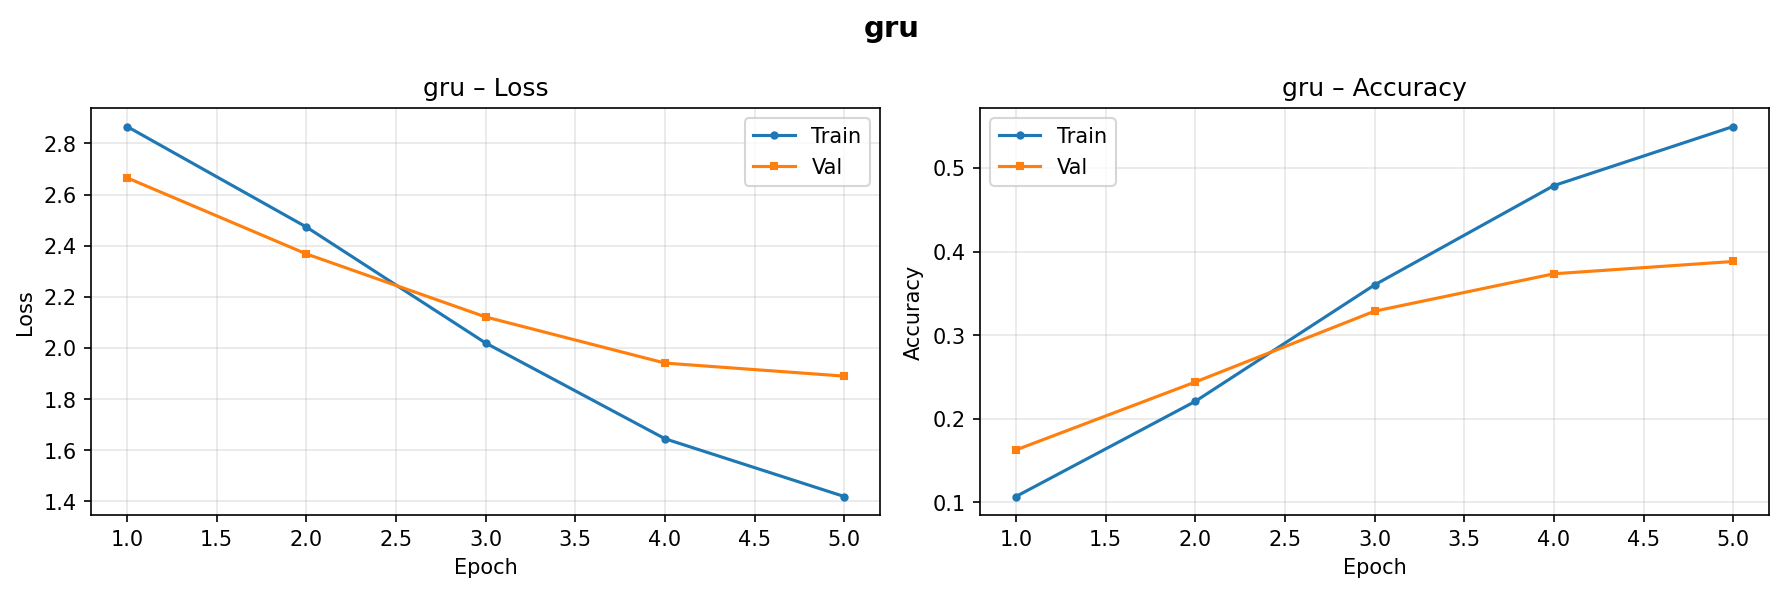
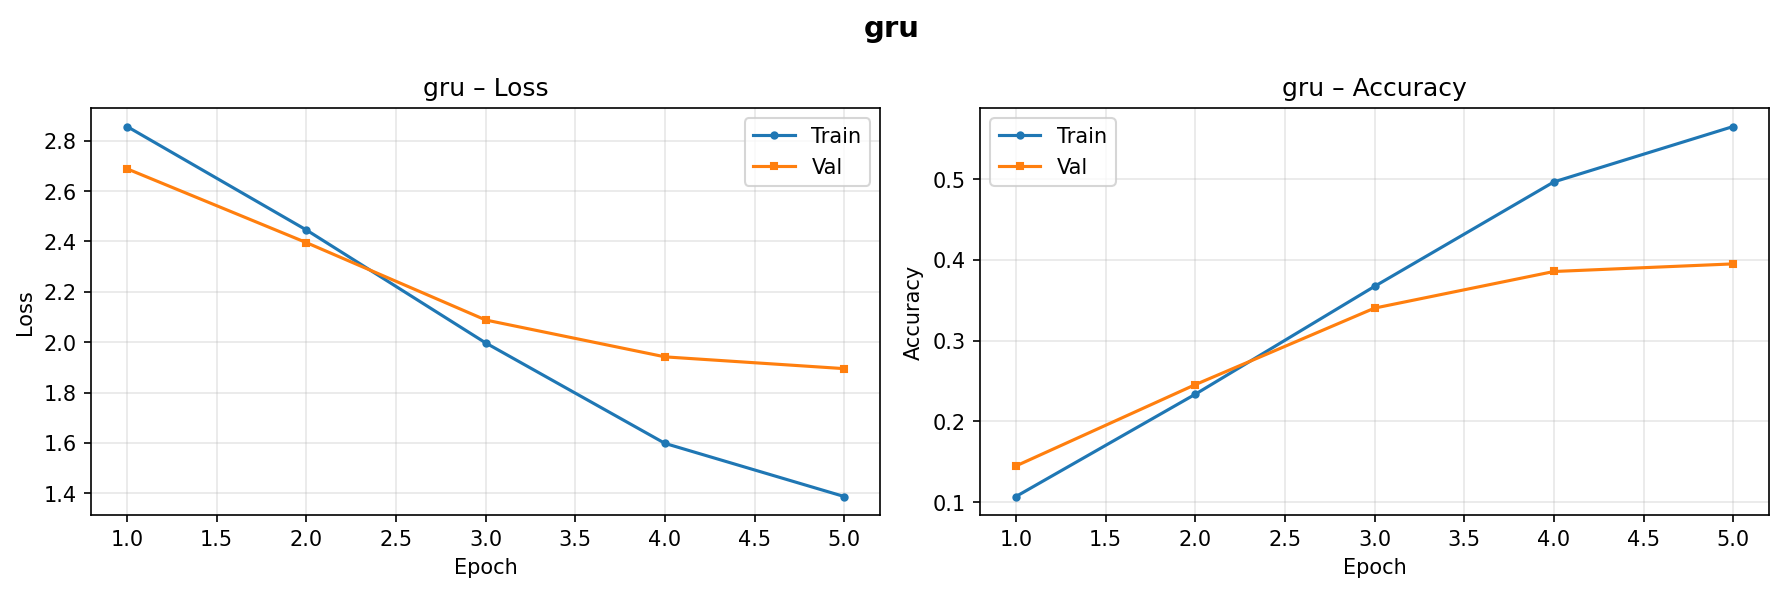
feat: update results with DistilBERT, CLIP and refreshed metrics
- DistilBERT: 69.04% accuracy, 0.6682 F1-macro (3 epochs)
- CLIP zero-shot 54.60%, few-shot 20-shot 93.00%
- Updated ResNet-50: 44.11%, EfficientNet-B0: 45.55%
- Updated BiLSTM: 32.22%, GRU: 37.85%
- Add multimodal comparison charts
- Update GitHub Pages report with all new metrics

diff --git a/docs/ass1.html b/docs/ass1.html
@@ -170,7 +170,7 @@
         <div class="num">3</div>
         <div class="info">
           <div class="name">Xây dựng, Huấn luyện & Đánh giá Mô hình</div>
-          <div class="status">ResNet-50, EfficientNet-B0, BiLSTM, GRU đã train · ViT, DeiT, DistilBERT, BERT đang chờ</div>
+          <div class="status">ResNet-50, EfficientNet, BiLSTM, GRU, DistilBERT, CLIP đã train · ViT-B/16 đang đánh giá · DeiT, BERT chưa train</div>
         </div>
         <span class="status-badge wip">🔄 In progress</span>
       </a>
@@ -178,7 +178,7 @@
         <div class="num">4</div>
         <div class="info">
           <div class="name">Kết quả Thực nghiệm</div>
-          <div class="status">ResNet-50 52.23% · EfficientNet 45.27% · GRU 37.35% · BiLSTM 30.64%</div>
+          <div class="status">DistilBERT 69.04% · CLIP 20-shot 93.00% · EfficientNet 45.55% · GRU 37.85%</div>
         </div>
         <span class="status-badge wip">🔄 In progress</span>
       </a>
@@ -195,16 +195,16 @@
 
   <div class="section" id="results">
     <h2>📊 Kết Quả Thực Nghiệm</h2>
-    <div class="sub">Cập nhật lần cuối: 21/03/2026 · 5 epochs (image) · 5 epochs (text)</div>
+    <div class="sub">Cập nhật lần cuối: 22/03/2026 · 5 epochs (image) · 3–5 epochs (text)</div>
 
     <h3 style="font-size:1rem; margin-bottom:0.8rem; color:#a5b4fc;">🖼 Image Classification (CIFAR-100)</h3>
     <div class="table-wrap" style="margin-bottom:2rem;">
       <table>
         <thead><tr><th>Model</th><th>Type</th><th>Test Accuracy</th><th>F1-Macro</th><th>Params</th><th>Epochs</th></tr></thead>
         <tbody>
-          <tr><td>ResNet-50</td><td>CNN</td><td class="metric">52.23%</td><td class="metric">0.5185</td><td>25.6M</td><td>5</td></tr>
-          <tr><td>EfficientNet-B0</td><td>CNN</td><td class="metric">45.27%</td><td class="metric">0.4466</td><td>5.3M</td><td>5</td></tr>
-          <tr><td>ViT-B/16</td><td>ViT</td><td class="tbd">Chưa train</td><td class="tbd">—</td><td>86M</td><td>—</td></tr>
+          <tr><td>ResNet-50</td><td>CNN</td><td class="metric">44.11%</td><td class="metric">0.4340</td><td>25.6M</td><td>5</td></tr>
+          <tr><td>EfficientNet-B0</td><td>CNN</td><td class="metric">45.55%</td><td class="metric">0.4483</td><td>5.3M</td><td>5</td></tr>
+          <tr><td>ViT-B/16</td><td>ViT</td><td class="tbd">Đang đánh giá</td><td class="tbd">—</td><td>86M</td><td>5</td></tr>
           <tr><td>DeiT-S</td><td>ViT</td><td class="tbd">Chưa train</td><td class="tbd">—</td><td>22M</td><td>—</td></tr>
         </tbody>
       </table>
@@ -215,9 +215,9 @@
       <table>
         <thead><tr><th>Model</th><th>Type</th><th>Test Accuracy</th><th>F1-Macro</th><th>Epochs</th></tr></thead>
         <tbody>
-          <tr><td>BiLSTM</td><td>RNN</td><td class="metric">30.64%</td><td class="metric">0.2930</td><td>5</td></tr>
-          <tr><td>GRU</td><td>RNN</td><td class="metric">37.35%</td><td class="metric">0.3559</td><td>5</td></tr>
-          <tr><td>DistilBERT</td><td>Transformer</td><td class="tbd">Chưa train</td><td class="tbd">—</td><td>—</td></tr>
+          <tr><td>BiLSTM</td><td>RNN</td><td class="metric">32.22%</td><td class="metric">0.3062</td><td>5</td></tr>
+          <tr><td>GRU</td><td>RNN</td><td class="metric">37.85%</td><td class="metric">0.3608</td><td>5</td></tr>
+          <tr><td>DistilBERT</td><td>Transformer</td><td class="metric">69.04%</td><td class="metric">0.6682</td><td>3</td></tr>
           <tr><td>BERT-base</td><td>Transformer</td><td class="tbd">Chưa train</td><td class="tbd">—</td><td>—</td></tr>
         </tbody>
       </table>
@@ -228,11 +228,11 @@
       <table>
         <thead><tr><th>Approach</th><th>Shots</th><th>Accuracy</th><th>F1-Macro</th></tr></thead>
         <tbody>
-          <tr><td>Zero-shot (CLIP)</td><td>0</td><td class="tbd">Chưa train</td><td class="tbd">—</td></tr>
-          <tr><td>Few-shot (CLIP + Linear)</td><td>1</td><td class="tbd">Chưa train</td><td class="tbd">—</td></tr>
-          <tr><td>Few-shot (CLIP + Linear)</td><td>5</td><td class="tbd">Chưa train</td><td class="tbd">—</td></tr>
-          <tr><td>Few-shot (CLIP + Linear)</td><td>10</td><td class="tbd">Chưa train</td><td class="tbd">—</td></tr>
-          <tr><td>Few-shot (CLIP + Linear)</td><td>20</td><td class="tbd">Chưa train</td><td class="tbd">—</td></tr>
+          <tr><td>Zero-shot (CLIP)</td><td>0</td><td class="metric">54.60%</td><td class="metric">0.5173</td></tr>
+          <tr><td>Few-shot (CLIP + Linear)</td><td>1</td><td class="metric">32.80%</td><td class="metric">0.3383</td></tr>
+          <tr><td>Few-shot (CLIP + Linear)</td><td>5</td><td class="metric">61.20%</td><td class="metric">0.6221</td></tr>
+          <tr><td>Few-shot (CLIP + Linear)</td><td>10</td><td class="metric">76.40%</td><td class="metric">0.7655</td></tr>
+          <tr><td>Few-shot (CLIP + Linear)</td><td>20</td><td class="metric">93.00%</td><td class="metric">0.9322</td></tr>
         </tbody>
       </table>
     </div>

diff --git a/scripts/train_image.py b/scripts/train_image.py
@@ -40,14 +40,14 @@ MODEL_CONFIGS = {
         lambda: get_efficientnet_b0(NUM_CLASSES, pretrained=True),
         1e-3, 5, 128, 32,
     ),
-    # "vit_b16": (
-    #     lambda: get_vit_b16(NUM_CLASSES, pretrained=True),
-    #     2e-5, 5, 32, 224,
-    # ),
-    # "deit_small": (
-    #     lambda: get_deit_small(NUM_CLASSES, pretrained=True),
-    #     2e-5, 5, 32, 224,
-    # ),
+    "vit_b16": (
+        lambda: get_vit_b16(NUM_CLASSES, pretrained=True),
+        2e-5, 5, 32, 224,
+    ),
+    "deit_small": (
+        lambda: get_deit_small(NUM_CLASSES, pretrained=True),
+        2e-5, 5, 32, 224,
+    ),
 }
 
 

diff --git a/scripts/train_text.py b/scripts/train_text.py
@@ -32,8 +32,8 @@ NUM_CLASSES = 20
 MODEL_CONFIGS = {
     "bilstm":      (1e-3,  5, 64),
     "gru":         (1e-3,  5, 64),
-    # "distilbert":  (2e-5,  3, 32),
-    # "bert":        (2e-5,  3, 16),
+    "distilbert":  (2e-5,  3, 32),
+    "bert":        (2e-5,  3, 16),
 }
 
 
